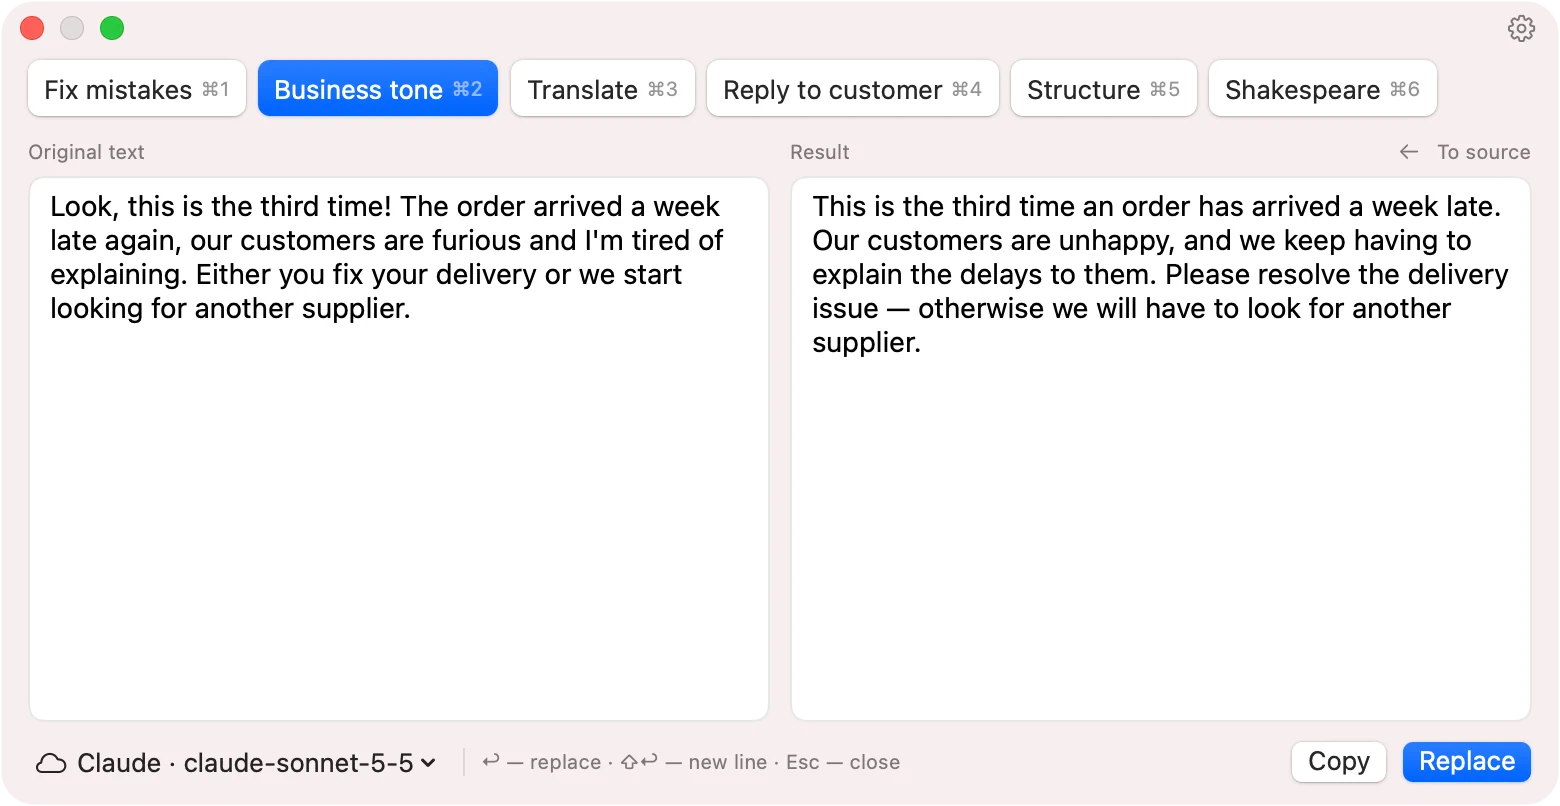
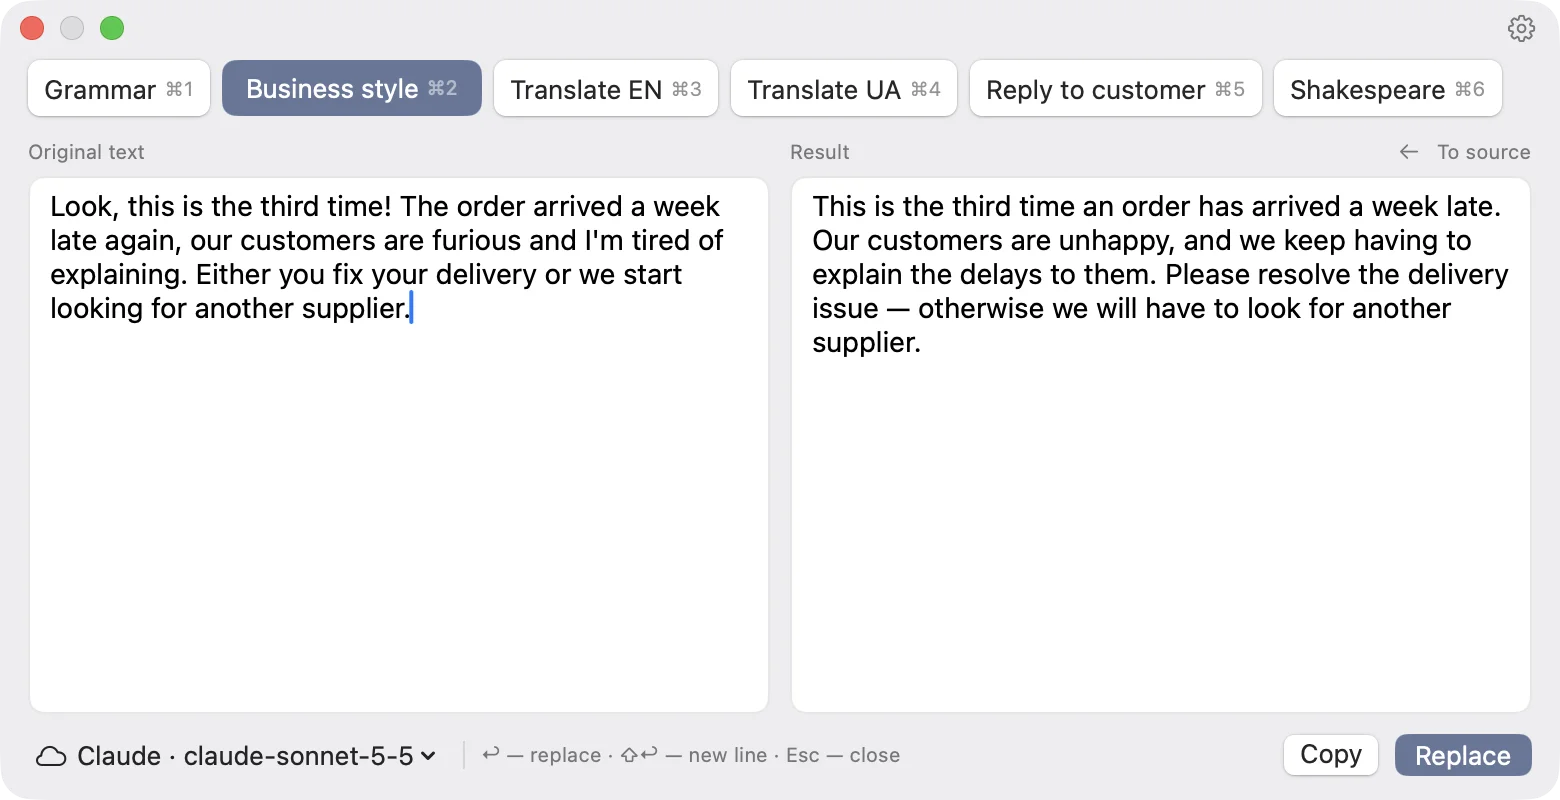
Reshoot the cases with the current styles, add dark versions

diff --git a/index.html b/index.html
@@ -331,7 +331,10 @@ footer .links { display: flex; gap: 22px; flex-wrap: wrap; }
         <span class="meta"><span data-i18n="hero.meta">Безкоштовно · macOS 14+ · Apple Silicon та Intel</span><span class="version"></span></span>
       </div>
       <div class="hero-shot">
-        <img class="shot" src="images/ua/case-2-business.webp" data-en="images/en/case-2-business.webp" width="780" height="403" alt="" data-i18n-alt="alt.hero">
+        <picture>
+          <source media="(prefers-color-scheme: dark)" srcset="images/ua/case-2-business-dark.webp" data-en="images/en/case-2-business-dark.webp">
+          <img class="shot" src="images/ua/case-2-business.webp" data-en="images/en/case-2-business.webp" width="780" height="400" alt="" data-i18n-alt="alt.hero">
+        </picture>
       </div>
     </div>
   </section>
@@ -365,22 +368,25 @@ footer .links { display: flex; gap: 22px; flex-wrap: wrap; }
       <p class="lead" data-i18n="cases.lead">Стиль — це готова інструкція для моделі. Ось шість прикладів, а власний стиль можна створити за хвилину.</p>
 
       <nav class="chips" aria-label="Styles">
-        <a class="chip" href="#case-1"><b data-i18n="s.1">Виправити</b> <span>⌘1</span></a>
+        <a class="chip" href="#case-1"><b data-i18n="s.1">Граматика</b> <span>⌘1</span></a>
         <a class="chip" href="#case-2"><b data-i18n="s.2">Діловий стиль</b> <span>⌘2</span></a>
-        <a class="chip" href="#case-3"><b data-i18n="s.3">Переклад</b> <span>⌘3</span></a>
-        <a class="chip" href="#case-4"><b data-i18n="s.4">Відповідь клієнту</b> <span>⌘4</span></a>
-        <a class="chip" href="#case-5"><b data-i18n="s.5">Структурувати</b> <span>⌘5</span></a>
+        <a class="chip" href="#case-3"><b data-i18n="s.3">Переклад EN</b> <span>⌘3</span></a>
+        <a class="chip" href="#case-4"><b data-i18n="s.4">Переклад UA</b> <span>⌘4</span></a>
+        <a class="chip" href="#case-5"><b data-i18n="s.5">Відповідь клієнту</b> <span>⌘5</span></a>
         <a class="chip" href="#case-6"><b data-i18n="s.6">Колорит</b> <span>⌘6</span></a>
       </nav>
 
       <article class="case" id="case-1">
         <div class="case-text">
-          <span class="tag"><span data-i18n="s.1">Виправити</span> ⌘1</span>
+          <span class="tag"><span data-i18n="s.1">Граматика</span> ⌘1</span>
           <h3 data-i18n="c.1.title">Пишіть як зручно — надсилайте без помилок</h3>
           <p data-i18n="c.1.text">Виправляє одруківки, пунктуацію й великі літери, але зберігає ваші слова й тон. Нічого не переписує зайвого.</p>
         </div>
         <div class="case-panel">
-          <img class="shot" src="images/ua/case-1-proofread.webp" data-en="images/en/case-1-proofread.webp" width="780" height="403" loading="lazy" alt="" data-i18n-alt="alt.1">
+          <picture>
+            <source media="(prefers-color-scheme: dark)" srcset="images/ua/case-1-grammar-dark.webp" data-en="images/en/case-1-grammar-dark.webp">
+            <img class="shot" src="images/ua/case-1-grammar.webp" data-en="images/en/case-1-grammar.webp" width="780" height="400" loading="lazy" alt="" data-i18n-alt="alt.1">
+          </picture>
         </div>
       </article>
 
@@ -391,41 +397,53 @@ footer .links { display: flex; gap: 22px; flex-wrap: wrap; }
           <p data-i18n="c.2.text">Різке чи сумбурне повідомлення стає ввічливим і твердим листом партнерові. Усі факти лишаються на місці.</p>
         </div>
         <div class="case-panel">
-          <img class="shot" src="images/ua/case-2-business.webp" data-en="images/en/case-2-business.webp" width="780" height="403" loading="lazy" alt="" data-i18n-alt="alt.2">
+          <picture>
+            <source media="(prefers-color-scheme: dark)" srcset="images/ua/case-2-business-dark.webp" data-en="images/en/case-2-business-dark.webp">
+            <img class="shot" src="images/ua/case-2-business.webp" data-en="images/en/case-2-business.webp" width="780" height="400" loading="lazy" alt="" data-i18n-alt="alt.2">
+          </picture>
         </div>
       </article>
 
       <article class="case" id="case-3">
         <div class="case-text">
-          <span class="tag"><span data-i18n="s.3">Переклад</span> ⌘3</span>
-          <h3 data-i18n="c.3.title">Пишіть рідною — відповідайте будь-якою</h3>
-          <p data-i18n="c.3.text">Мова оригіналу визначається сама: українська стає англійською, англійська — українською. Звучить природно, як у носія мови.</p>
+          <span class="tag"><span data-i18n="s.3">Переклад EN</span> ⌘3</span>
+          <h3 data-i18n="c.3.title">Пишіть українською — надсилайте англійською</h3>
+          <p data-i18n="c.3.text">Українська стає англійською, англійська — українською: напрямок обирається сам. Звучить природно, як у носія мови.</p>
         </div>
         <div class="case-panel">
-          <img class="shot" src="images/ua/case-3-translate.webp" data-en="images/en/case-3-translate.webp" width="780" height="403" loading="lazy" alt="" data-i18n-alt="alt.3">
+          <picture>
+            <source media="(prefers-color-scheme: dark)" srcset="images/ua/case-3-translate-en-dark.webp" data-en="images/en/case-3-translate-en-dark.webp">
+            <img class="shot" src="images/ua/case-3-translate-en.webp" data-en="images/en/case-3-translate-en.webp" width="780" height="400" loading="lazy" alt="" data-i18n-alt="alt.3">
+          </picture>
         </div>
       </article>
 
       <article class="case" id="case-4">
         <div class="case-text">
-          <span class="tag"><span data-i18n="s.4">Відповідь клієнту</span> ⌘4</span>
-          <h3 data-i18n="c.4.title">Відповіді клієнтам — за документами вашої компанії</h3>
-          <p data-i18n="c.4.text">Виділіть повідомлення клієнта в Telegram чи Viber — і отримайте відповідь лише з фактів вашої бази знань: ціни, графік, умови. Готова відповідь вставляється просто в поле чату.</p>
-          <p data-i18n="c.4.text2">Покладіть базу в спільну папку iCloud чи Synology Drive — і вся команда відповідатиме однаково, а правки колег одразу потраплять у відповіді.</p>
+          <span class="tag"><span data-i18n="s.4">Переклад UA</span> ⌘4</span>
+          <h3 data-i18n="c.4.title">Відповідь з-за кордону — українською</h3>
+          <p data-i18n="c.4.text">Німецька, польська, англійська чи будь-яка інша мова стає українською — мову оригіналу не треба вказувати. Переклади йдуть через DeepL або будь-яку модель на ваш вибір.</p>
         </div>
         <div class="case-panel">
-          <img class="shot" src="images/ua/case-4-knowledge.webp" data-en="images/en/case-4-knowledge.webp" width="780" height="403" loading="lazy" alt="" data-i18n-alt="alt.4">
+          <picture>
+            <source media="(prefers-color-scheme: dark)" srcset="images/ua/case-4-translate-ua-dark.webp" data-en="images/en/case-4-translate-ua-dark.webp">
+            <img class="shot" src="images/ua/case-4-translate-ua.webp" data-en="images/en/case-4-translate-ua.webp" width="780" height="400" loading="lazy" alt="" data-i18n-alt="alt.4">
+          </picture>
         </div>
       </article>
 
       <article class="case" id="case-5">
         <div class="case-text">
-          <span class="tag"><span data-i18n="s.5">Структурувати</span> ⌘5</span>
-          <h3 data-i18n="c.5.title">Надиктували думки — отримали структуру</h3>
-          <p data-i18n="c.5.text">З нотатки, голосового чи конспекту дзвінка робить чіткий список або зв'язний текст — без повторів і зайвих слів.</p>
+          <span class="tag"><span data-i18n="s.5">Відповідь клієнту</span> ⌘5</span>
+          <h3 data-i18n="c.5.title">Відповіді клієнтам — за документами вашої компанії</h3>
+          <p data-i18n="c.5.text">Виділіть повідомлення клієнта в Telegram чи Viber — і отримайте відповідь лише з фактів вашої бази знань: ціни, графік, умови. Готова відповідь вставляється просто в поле чату.</p>
+          <p data-i18n="c.5.text2">Покладіть базу в спільну папку iCloud чи Synology Drive — і вся команда відповідатиме однаково, а правки колег одразу потраплять у відповіді.</p>
         </div>
         <div class="case-panel">
-          <img class="shot" src="images/ua/case-5-structure.webp" data-en="images/en/case-5-structure.webp" width="780" height="403" loading="lazy" alt="" data-i18n-alt="alt.5">
+          <picture>
+            <source media="(prefers-color-scheme: dark)" srcset="images/ua/case-5-reply-dark.webp" data-en="images/en/case-5-reply-dark.webp">
+            <img class="shot" src="images/ua/case-5-reply.webp" data-en="images/en/case-5-reply.webp" width="780" height="400" loading="lazy" alt="" data-i18n-alt="alt.5">
+          </picture>
         </div>
       </article>
 
@@ -436,7 +454,10 @@ footer .links { display: flex; gap: 22px; flex-wrap: wrap; }
           <p data-i18n="c.6.text">Буденне повідомлення стає промовою дотепного дядька з Полтавщини: приказки, порівняння, перебільшення — а факти на місці. Стиль може бути будь-яким, навіть смішним.</p>
         </div>
         <div class="case-panel">
-          <img class="shot" src="images/ua/case-7-kolorit.webp" data-en="images/en/case-7-shakespeare.webp" width="780" height="403" loading="lazy" alt="" data-i18n-alt="alt.6">
+          <picture>
+            <source media="(prefers-color-scheme: dark)" srcset="images/ua/case-6-kolorit-dark.webp" data-en="images/en/case-6-shakespeare-dark.webp">
+            <img class="shot" src="images/ua/case-6-kolorit.webp" data-en="images/en/case-6-shakespeare.webp" width="780" height="400" loading="lazy" alt="" data-i18n-alt="alt.6">
+          </picture>
         </div>
       </article>
     </div>
@@ -763,18 +784,18 @@ const EN = {
   "how.3.text": "The result replaces the selected text — right where you were typing.",
   "cases.title": "One app, many jobs",
   "cases.lead": "A style is a ready-made instruction for the model. Here are six examples — and you can create your own in a minute.",
-  "s.1": "Fix mistakes", "s.2": "Business tone", "s.3": "Translate", "s.4": "Reply to customer", "s.5": "Structure", "s.6": "Shakespeare",
+  "s.1": "Grammar", "s.2": "Business style", "s.3": "Translate EN", "s.4": "Translate UA", "s.5": "Reply to customer", "s.6": "Shakespeare",
   "c.1.title": "Type however you like — send it without mistakes",
   "c.1.text": "Fixes typos, punctuation and capitalisation while keeping your words and tone. Nothing gets rewritten for no reason.",
   "c.2.title": "Emotions in, business message out",
   "c.2.text": "A sharp or rambling message becomes a polite, firm note to a partner. Every fact stays in place.",
-  "c.3.title": "Write in yours — reply in theirs",
-  "c.3.text": "The source language is detected automatically: English turns into German, any other language into English. It reads naturally, like a native speaker wrote it.",
-  "c.4.title": "Answers from your own company documents",
-  "c.4.text": "Select a customer's message in WhatsApp or Telegram and get a reply built only from the facts in your knowledge base: prices, hours, terms. The reply is pasted straight into the chat box.",
-  "c.4.text2": "Keep the knowledge base in a shared iCloud or Synology Drive folder, and the whole team answers the same way — colleagues' edits show up in replies right away.",
-  "c.5.title": "Messy thoughts in, clear structure out",
-  "c.5.text": "Turns a note, a voice memo or call notes into a clear list or coherent text — without repetition or filler.",
+  "c.3.title": "Messages from abroad — in plain English",
+  "c.3.text": "Any language becomes English, and English becomes Ukrainian — the direction is picked automatically. It reads naturally, like a native speaker wrote it.",
+  "c.4.title": "Write to Ukrainian customers in Ukrainian",
+  "c.4.text": "Any language becomes Ukrainian — no need to say what the original is. Translations run through DeepL or any model you choose.",
+  "c.5.title": "Answers from your own company documents",
+  "c.5.text": "Select a customer's message in WhatsApp or Telegram and get a reply built only from the facts in your knowledge base: prices, hours, terms. The reply is pasted straight into the chat box.",
+  "c.5.text2": "Keep the knowledge base in a shared iCloud or Synology Drive folder, and the whole team answers the same way — colleagues' edits show up in replies right away.",
   "c.6.title": "And just for fun",
   "c.6.text": "An everyday note becomes a scene from a play — thee, thou and doth, with every fact still in place. A style can be anything, even funny.",
   "f.title": "Everything you need to work with text",
@@ -826,21 +847,21 @@ const EN = {
   "q.6.q": "How do updates work?",
   "q.6.a": "The app checks for updates itself and installs them in one click — your settings, keys and permissions are kept.",
   "ft.releases": "All versions",
-  "alt.hero": "Harno window: an emotional message rewritten in a business tone",
-  "alt.1": "Fix mistakes: a message with typos and its corrected version",
-  "alt.2": "Business tone: an angry message to a supplier and its polite version",
-  "alt.3": "Translate: a message in English and its German translation",
-  "alt.4": "Reply to customer: a question to a gym and a reply built from its knowledge base",
-  "alt.5": "Structure: a rambling note turned into a to-do list",
+  "alt.hero": "Harno window: an emotional message rewritten in a business style",
+  "alt.1": "Grammar: a message with typos and its corrected version",
+  "alt.2": "Business style: an angry message to a supplier and its polite version",
+  "alt.3": "Translate EN: a supplier's reply in German and its English translation",
+  "alt.4": "Translate UA: a note to customers in English and its Ukrainian translation",
+  "alt.5": "Reply to customer: a question to a gym and a reply built from its knowledge base",
   "alt.6": "Shakespeare: a note about a parked car rewritten in Shakespearean English",
 };
 const UA_ALT = {
   "alt.hero": "Вікно Harno: емоційне повідомлення, переписане діловим стилем",
-  "alt.1": "Виправити: повідомлення з одруківками та виправлений варіант",
+  "alt.1": "Граматика: повідомлення з одруківками та виправлений варіант",
   "alt.2": "Діловий стиль: різке повідомлення постачальнику та ввічливий варіант",
-  "alt.3": "Переклад: повідомлення українською та переклад англійською",
-  "alt.4": "Відповідь клієнту: запитання до фітнес-клубу та відповідь за його базою знань",
-  "alt.5": "Структурувати: сумбурна нотатка, перетворена на список справ",
+  "alt.3": "Переклад EN: лист постачальнику українською та переклад англійською",
+  "alt.4": "Переклад UA: відповідь постачальника німецькою та переклад українською",
+  "alt.5": "Відповідь клієнту: запитання до фітнес-клубу та відповідь за його базою знань",
   "alt.6": "Колорит: повідомлення про машину біля під'їзду, переписане з українським колоритом",
 };
 const META = {
@@ -853,7 +874,9 @@ const META = {
 
 const UA = {};
 document.querySelectorAll("[data-i18n]").forEach(el => { UA[el.dataset.i18n] = el.innerHTML; });
-document.querySelectorAll("img[data-en]").forEach(img => { img.dataset.ua = img.getAttribute("src"); });
+// У <source> тёмной темы адрес в srcset, у <img> — в src.
+const srcAttr = el => el.tagName === "SOURCE" ? "srcset" : "src";
+document.querySelectorAll("[data-en]").forEach(el => { el.dataset.ua = el.getAttribute(srcAttr(el)); });
 
 let release = null;
 
@@ -864,7 +887,7 @@ function setLang(lang) {
     const value = dict[el.dataset.i18n];
     if (value !== undefined) el.innerHTML = value;
   });
-  document.querySelectorAll("img[data-en]").forEach(img => { img.src = lang === "en" ? img.dataset.en : img.dataset.ua; });
+  document.querySelectorAll("[data-en]").forEach(el => { el.setAttribute(srcAttr(el), lang === "en" ? el.dataset.en : el.dataset.ua); });
   document.querySelectorAll("[data-i18n-alt]").forEach(img => {
     img.alt = (lang === "en" ? EN : UA_ALT)[img.dataset.i18nAlt] || "";
   });
